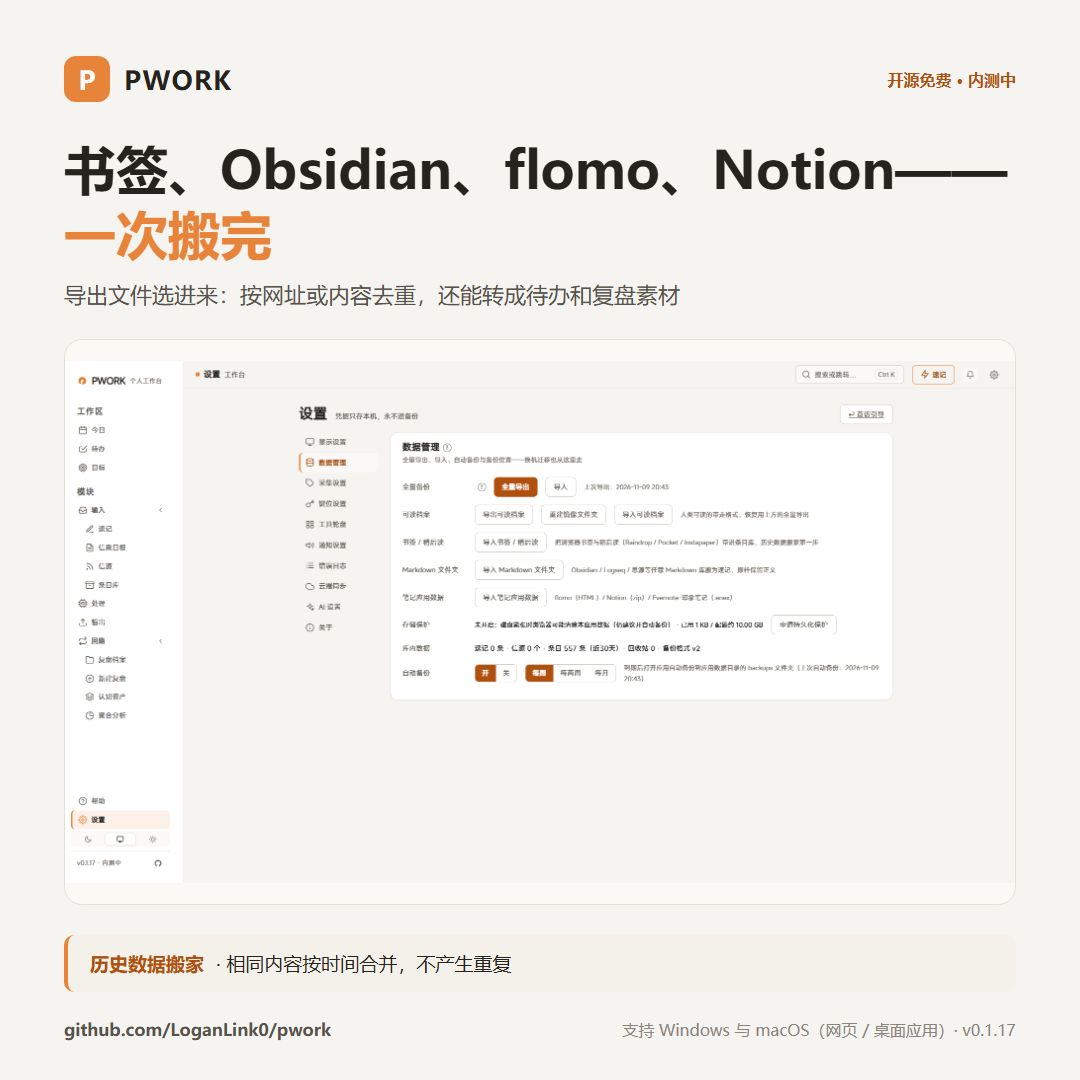
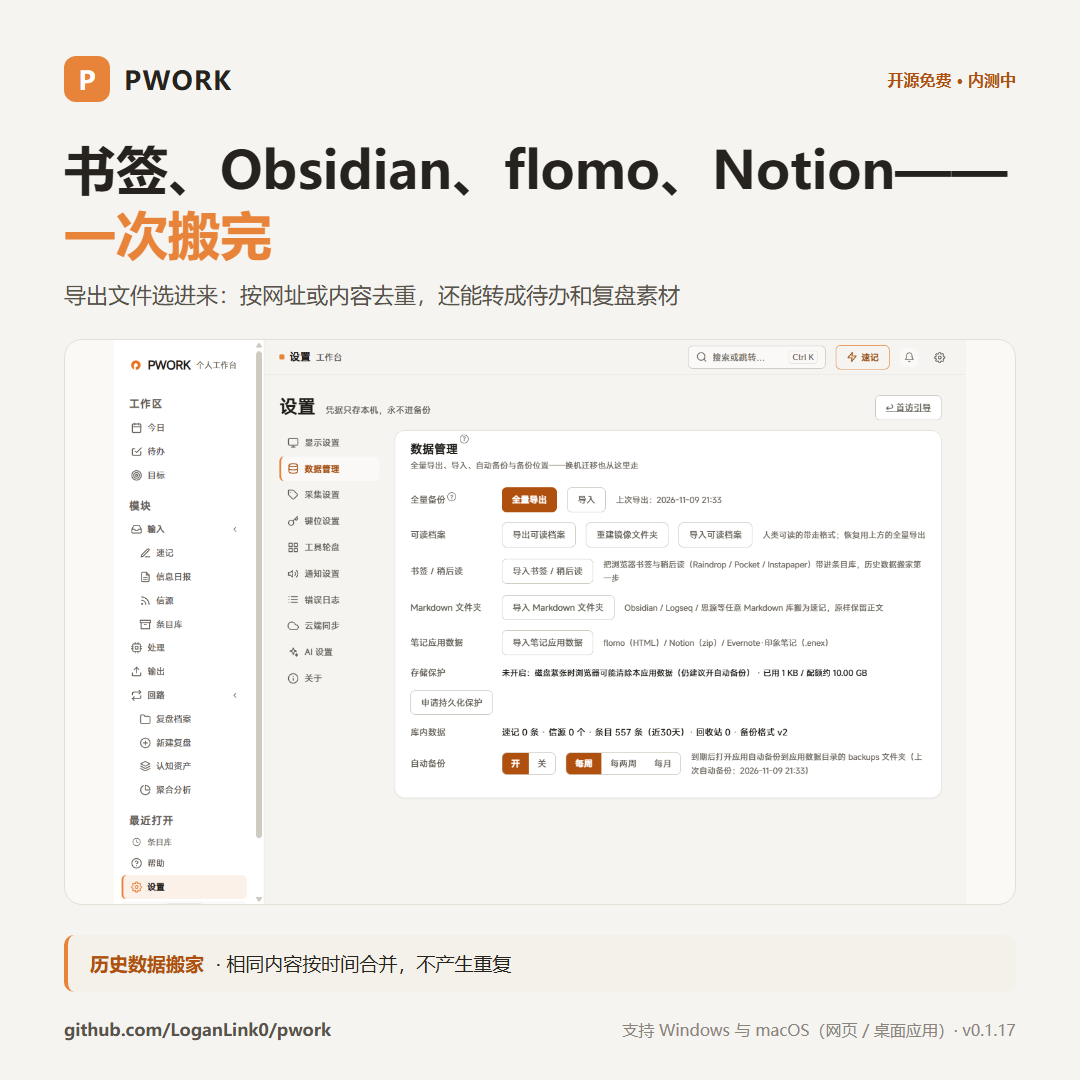
fix(0.1.17 热修重出 prep): 关自动备份知情确认闸门 + gateway.env 轮换副本与回落读取（Key 单点消除）；行内问号挪进标签元素结构性上标；八张组图随新素材重出（问号入标签+侧栏版本随新）；CHANGELOG/发布说明补热修行；TODO 备份兜底批与热修重出留档

diff --git a/app/src/pages/CloudSync.tsx b/app/src/pages/CloudSync.tsx
@@ -263,11 +263,13 @@ export function CloudSyncCards({ active }: { active: boolean }) {
           ) : (
             <>
               <div className="set-row">
-                <label>云端代理地址</label>
-            <InfoTip
-              label="云端代理地址说明"
-              text={<>可选。手机浏览器连不到电脑的本地网关，需要填它才能走云端代理：填 https://pwork-api.loganlink0.cn（你部署的云端服务地址，在桌面版这里也能看到）。桌面版可不填——优先走本机网关，连不上才用它。</>}
-            />
+                <label>
+                  云端代理地址
+                  <InfoTip
+                    label="云端代理地址说明"
+                    text={<>可选。手机浏览器连不到电脑的本地网关，需要填它才能走云端代理：填 https://pwork-api.loganlink0.cn（你部署的云端服务地址，在桌面版这里也能看到）。桌面版可不填——优先走本机网关，连不上才用它。</>}
+                  />
+                </label>
                 <input
                   className="input"
                   placeholder="桌面可留空；手机端填云端服务地址（见右侧说明）"
@@ -300,11 +302,13 @@ export function CloudSyncCards({ active }: { active: boolean }) {
               <details className="adv-block">
                 <summary>高级：改用 Cloudflare API Token（默认粘贴部署输出的 Token 即可）</summary>
                 <div className="set-row" style={{ marginTop: 'var(--sp-3)' }}>
-                  <label>API Token</label>
-            <InfoTip
-              label="凭据怎么填"
-              text={<>推荐：直接粘贴部署完成时输出的「端点地址 + Token」（ptk_ 开头那个）——填到上面两处即可，不用去 Cloudflare 控制台。也可以改用 Cloudflare API Token（约 2 分钟）：打开 <a href="https://dash.cloudflare.com/profile/api-tokens" target="_blank" rel="noreferrer noopener">dash.cloudflare.com/profile/api-tokens</a> → 创建令牌 → 自定义令牌 → 权限「账户 → D1 → 编辑」→ 复制粘贴。两种都能用。</>}
-            />
+                  <label>
+                    API Token
+                    <InfoTip
+                      label="凭据怎么填"
+                      text={<>推荐：直接粘贴部署完成时输出的「端点地址 + Token」（ptk_ 开头那个）——填到上面两处即可，不用去 Cloudflare 控制台。也可以改用 Cloudflare API Token（约 2 分钟）：打开 <a href="https://dash.cloudflare.com/profile/api-tokens" target="_blank" rel="noreferrer noopener">dash.cloudflare.com/profile/api-tokens</a> → 创建令牌 → 自定义令牌 → 权限「账户 → D1 → 编辑」→ 复制粘贴。两种都能用。</>}
+                    />
+                  </label>
                   <input
                     className="input"
                     type="password"
@@ -316,11 +320,13 @@ export function CloudSyncCards({ active }: { active: boolean }) {
                 </div>
               </details>
               <div className="set-row">
-                <label>配对到手机</label>
-                <InfoTip
-                  label="配对说明"
-                  text={<>生成一行配对文本（含云端代理地址与配对码），发到手机粘贴导入——手机端全程不需要 Cloudflare 控制台。重新生成会让旧配对码作废。</>}
-                />
+                <label>
+                  配对到手机
+                  <InfoTip
+                    label="配对说明"
+                    text={<>生成一行配对文本（含云端代理地址与配对码），发到手机粘贴导入——手机端全程不需要 Cloudflare 控制台。重新生成会让旧配对码作废。</>}
+                  />
+                </label>
                 <div style={{ display: 'flex', gap: 8, flex: 1 }}>
                   <input className="input" readOnly value={pairingText} placeholder="点右侧「生成配对码」…" aria-label="配对文本" />
                   {pairingText ? (
@@ -337,11 +343,13 @@ export function CloudSyncCards({ active }: { active: boolean }) {
                 )}
               </div>
               <div className="set-row">
-                <label>从桌面导入</label>
-                <InfoTip
-                  label="导入说明"
-                  text={<>手机端用：粘贴桌面「配对到手机」生成的文本，自动填好云端代理地址与凭据。注意：会覆盖本机已填的凭据——桌面端已配置好的不要点导入。</>}
-                />
+                <label>
+                  从桌面导入
+                  <InfoTip
+                    label="导入说明"
+                    text={<>手机端用：粘贴桌面「配对到手机」生成的文本，自动填好云端代理地址与凭据。注意：会覆盖本机已填的凭据——桌面端已配置好的不要点导入。</>}
+                  />
+                </label>
                 <div style={{ display: 'flex', gap: 8, flex: 1 }}>
                   <input className="input" value={pairingImport} placeholder="手机端：粘贴配对文本，或点「扫码导入」" onChange={(e) => setPairingImport(e.target.value)} aria-label="配对文本导入" />
                   <button type="button" className="btn-primary" style={{ padding: '8px 16px', fontSize: 14 }} onClick={() => (scanning ? stopScan() : void doStartScan())}>{scanning ? '取消扫码' : '扫码导入'}</button>

diff --git a/app/src/pages/Settings.tsx b/app/src/pages/Settings.tsx
@@ -539,11 +539,13 @@ export function Settings() {
         <div className="set-body">
 
           <div className="set-row">
-            <label>全量备份</label>
-            <InfoTip
-              label="全量导出内容范围"
-              text={<>导出内容：速记、信源、条目、采集设置、任务、目标、复盘（含行动项与洞察）、外部数据块。条目只含已评分和已保留的，未处理与已筛除的不导出。导入时相同内容按修改时间新者为准；FUPAN 旧版导出的文件也能导入。</>}
-            />
+            <label>
+              全量备份
+              <InfoTip
+                label="全量导出内容范围"
+                text={<>导出内容：速记、信源、条目、采集设置、任务、目标、复盘（含行动项与洞察）、外部数据块。条目只含已评分和已保留的，未处理与已筛除的不导出。导入时相同内容按修改时间新者为准；FUPAN 旧版导出的文件也能导入。</>}
+              />
+            </label>
             <button type="button" className="btn-primary" style={{ flex: 'none' }} onClick={() => void doExport()}>
               全量导出
             </button>
@@ -702,7 +704,26 @@ export function Settings() {
               <button type="button" className={autoBk.enabled ? 'on' : ''} onClick={() => setAutoBackup({ enabled: true })} aria-pressed={autoBk.enabled}>
                 开
               </button>
-              <button type="button" className={!autoBk.enabled ? 'on' : ''} onClick={() => setAutoBackup({ enabled: false })} aria-pressed={!autoBk.enabled}>
+              <button
+                type="button"
+                className={!autoBk.enabled ? 'on' : ''}
+                onClick={() => {
+                  // 关闭自动备份必须过知情确认（2026-11-09 用户定稿：默认强制备份，退出需知情同意）——
+                  // 数据安全三道闸少一道后，误删/损坏/覆盖安装事故将没有任何自动可恢复副本
+                  if (autoBk.enabled) {
+                    void confirmDialog({
+                      title: '关闭自动备份？',
+                      body: '关闭后，日常的误删、文件损坏、覆盖安装事故将没有任何自动可恢复副本；浏览器版清除浏览数据会连数据一起清掉。数据安全三道闸会少一道，且事后无法追溯。',
+                      danger: true,
+                      confirmLabel: '仍要关闭（我了解风险）',
+                      cancelLabel: '保持开启',
+                    }).then((ok) => { if (ok) setAutoBackup({ enabled: false }) })
+                  } else {
+                    setAutoBackup({ enabled: true })
+                  }
+                }}
+                aria-pressed={!autoBk.enabled}
+              >
                 关
               </button>
             </div>

diff --git a/app/src/styles/shell.css b/app/src/styles/shell.css
@@ -3381,13 +3381,8 @@ html[data-wheel] body {
   align-self: flex-start;
   line-height: 1;
 }
-/* set-row 里标签是独立列，行距 gap 会把问号推离标签悬在空档——
-   负外边距贴回标签右上角，上边距抵消行内边距使问号顶对齐标签顶（2026-11-09 量测） */
-.set-row .info-tip {
-  margin-left: calc(var(--sp-4) * -1 + 3px);
-  margin-top: var(--sp-2);
-}
-/* 大字号卡片标题（h2）里 vertical-align 到不了字面顶，位移补偿吸到标题右上角 */
+/* 行内问号已挪进标签/标题元素内部（2026-11-09 第六轮）：随文字换行永远贴右上角，
+   不再依赖 set-row 负边距补偿（窄窗换行形态下补偿会失效）；h2 大字号仍需位移到字面顶 */
 h2 .info-tip {
   transform: translateY(-10px);
 }

diff --git a/app/src-tauri/src/gateway.rs b/app/src-tauri/src/gateway.rs
@@ -69,6 +69,10 @@ impl GatewayConfig {
         // 工作目录——从下载目录等位置启动时，工作目录下预置的 .env 可劫持上游地址（安全审计 F10）
         let mut vars: Vec<(String, String)> = Vec::new();
         parse_env_file(&data_dir.join("gateway.env"), &mut vars);
+        // Key 兜底（复盘 3.64）：gateway.env 缺失/无 Key 时回落同目录轮换副本 gateway.env.autobak
+        if var_from(&vars, "PWORK_LLM_API_KEY").map(|v| v.is_empty()).unwrap_or(true) {
+            parse_env_file(&data_dir.join("gateway.env.autobak"), &mut vars);
+        }
         if cfg!(debug_assertions) {
             parse_env_file(&PathBuf::from(".env.local"), &mut vars);
             parse_env_file(&PathBuf::from(".env"), &mut vars);

diff --git a/app/src-tauri/src/lib.rs b/app/src-tauri/src/lib.rs
@@ -174,6 +174,10 @@ fn save_gateway_key(
         }
     }
     std::fs::write(&file, format!("{}\n", lines.join("\n"))).map_err(|e| e.to_string())?;
+    // 同目录轮换副本（复盘 3.64）：gateway.env 是 Key 的唯一落点，损坏/丢失即不可逆——
+    // 副本同权限同目录，永不进导出与备份包裹
+    let bak = data_dir.join("gateway.env.autobak");
+    let _ = std::fs::copy(&file, &bak);
     // 热更新：重新从盘上加载（与启动时同一路径），后续请求立即用新 Key
     *state.lock().unwrap() = gateway::GatewayConfig::load(&data_dir);
     Ok(())

diff --git a/docs/TODO.md b/docs/TODO.md
@@ -13,6 +13,8 @@
 - [x] **用户验收 UX 修复批（2026-11-09 五项全落地）**：①公告卡锁两行（.an-desc line-clamp 2 + min-height 定高，轮换到长文案不再顶起上方布局）+「前往」改跳发布页 `#changelog`——介绍页时间线升级为逐版更新日志区（0.1.8→0.1.17 十版要点，参考 autoclaw changelog 形态）②数据流向图大图补右上角 ✕ 关闭钮 + 窗口级 Esc 监听 + 操作提示（原提示被 88vh 大图推出视口，实际只能 Esc 关）③常见问题/术语表分组折叠展开（faq-fold，details 默认展开，组名带条数与箭头）④InfoTip 全局缩小上标（17px→14px，vertical-align:super + flex 行内 align-self:flex-start，吸标题文字右上角——数据管理/云端同步/AI 设置等全量生效）⑤截素材切版本事故与防线：强杀 WebView2 宿主致用户 AI Key 清零（localStorage profile 被重置，复盘 3.64 留档），gateway.env 从 app/.env.local 原样恢复（密钥不经对话）；截素材规程改为隔离数据目录实例（WEBVIEW2_USER_DATA_FOLDER=-iso）+ 脚本注入最小网关模式 coach 配置 + 关停走 WM_CLOSE 优雅路径（local/send-wmclose.ps1）。连带发现新缺陷见下条。测试 542 全绿 / tsc 0 / lint 0 错误
 - [ ] **关主窗后进程不退出——无窗僵尸持单实例锁（2026-11-09 发现，bug 入 backlog）**：主窗 ✕ / WM_CLOSE 后窗口全部销毁，进程不退（EnumWindows 零顶层窗口、内存平稳），疑似退出清理与网关线程互等；僵尸握单实例锁阻断再次启动，操作者被迫强杀——而强杀 WebView2 宿主正是配置清零事故根因（复盘 3.64/3.65）。修法方向：RunEvent::ExitRequested 显式处理 + 网关线程受控关停（join/断开）+ 回归项「点 ✕ 后进程退出且再次启动正常」；配套排查产物 local/send-wmclose.ps1（全窗口 WM_CLOSE 投递）与 local/list-win.ps1（窗口清单）
 - [x] **宣传物料品牌色统一（2026-11-09 用户抓出）**：组图模板 #d98e3a / 主图 #e0862c / 应用与介绍页记录值 #e8833a 三套橙并存（复盘 3.66）——模板建时色值未从 tokens.css 取、历轮验收只看内容未核色。统一改 #e8833a / #b0500f（tokens.css 记录对），主图重渲染升 v16（v15 删，git 可回溯），八张组图重出；发版清单宣传物料核对项补「模板 --accent 与 tokens.css 同值」
+- [x] **备份兜底第一批（2026-11-09 用户定稿「默认强制备份，退出需知情同意」）**：①设置→数据管理 关自动备份改为知情确认闸门（确认层红键列后果，确认才关）②gateway.env 轮换副本：保存时同步写 gateway.env.autobak（同目录同权限，永不进导出与备份包裹），读取侧主文件缺失/无 Key 自动回落——Key 单点消除（复盘 3.64 收口）。**下批设计定稿待实施**：主库突变守卫（启动比对行数快照，实体骤减 ≥95% 先隔离现状再给一键恢复，封覆盖安装类静默丢）+ 恢复演练进发版清单
+- [x] **0.1.17 同版本热修重出（2026-11-09 用户拍板「打进 0.1.17」）**：本日全部验收修复（公告卡两行/问号上标/灯盒关闭钮/常见问题折叠/备份知情闸门/Key 互备/物料色值）随 0.1.17 安装包重出——Windows 双包重构建换新签名，GitHub Release 资产与 latest.json Windows 条目、COS 直链同步替换；mac dmg 走 CI 工作流重出（对已发 tag 重跑不覆盖 latest.json darwin 条目的防线保持）；同版本号下已装 0.1.17 的用户不会收到更新提示，需手动覆盖安装新版
 - [x] **R1 第三方数据导入（2026-11-04 用户拍板：先 R1 → 再 R2 → macOS 最后）**：~~浏览器书签 HTML 导入~~（**已完成 2026-11-04，17401**：engine/bookmarksImport.ts + 设置→数据入口 + 单测 5）；~~flomo / Notion / Evernote~~（**实为 0.1.15 已全量交付**：engine/thirdpartyImport.ts 三通道——flomo 导出 HTML 时间戳切块、Notion 导出 zip（.md+子文件夹，CSV 跳过）、.enex XML，设置→数据「导入笔记应用数据」入口在位；TODO 原「剩余 flomo zip / Notion zip」为漏勾——flomo 官方导出形态即单 HTML 无 zip（2026-11-05 官方文档查证留档），2026-11-09 对账勾档）
 - [ ] **移动端数据通路（竞品评估 5.1，2026-11-08 入档；0.1.16 三十天稳定窗口后首个大活）**：手机浏览器连不到本机网关、手机侧 D1 拉取暂不通——卡点精确位置（2026-11-08 源码核实）：抓取链路有转接服务兜底手机端本就可用，断的是 d1Query 的两条路（本地网关手机上不存在；官方直连无 CORS 头被浏览器拦）。**① worker CORS 代理已实装（2026-11-08，修断路）**：worker 新增 POST /api/d1/query 反代端点——挂 CORS 头转发官方 API、鉴权由 Cloudflare 按 Bearer Token 官方裁定、账户/库 ID 格式校验防路径注入、worker 零凭据存储；前端 d1Query 升三级回落（本地网关 → 云端代理 → 官方直连），手机端配置零新增（endpoint/accountId/databaseId/token 全部复用）；测试 worker 23 项（+4）/app 532 项（+3）全绿、tsc 零错误。**② worker 已更新部署 + 线上验证（2026-11-08 用户授权代办完成）**：wrangler deploy 成功（版本 1f391820，OAuth 复用本机登录态；database_id 回写部署→提交前还原占位符），线上实测 health 200 / CORS 预检头正常 / 无凭据 401 拦截；GitHub 已推送（06293b8），Pages 重建后手机 PWA 即含三级回落前端。**DNS 迁移与自定义域全部完成（2026-11-08 用户拍板选项 1 并代办的步骤全部执行完毕）**：loganlink0.cn NS 已从 DNSPod 迁至 Cloudflare（brian/chelsea.ns.cloudflare.com，注册局与公共 DNS 均已生效，介绍页 HTTPS 200 正常；迁移中踩两处——Cloudflare 扫描不含自命名子域需手动补 pwork CNAME、添加记录的代理橙云默认开启致 HTTPS 短暂不可达已改灰云）；worker 已绑自定义域 pwork-api.loganlink0.cn（wrangler.toml routes 顶层键 + workers_dev 显式保留双入口；踩坑：routes 写进 [triggers] 段内被当嵌套字段忽略），**大陆直连实测 health 200 / 无凭据 401 / 坏格式 400**；剩余唯一动作=手机端 设置→云端同步 端点填 https://pwork-api.loganlink0.cn 实测设备同步。**③ 两步配对已全栈实装（2026-11-08 用户体验批评驱动，087e694）**：手机配置从「Cloudflare API Token + 账户 ID + 数据库 ID + 控制台建令牌」缩到「粘贴一行配对文本」——worker /api/d1/query 三级分流（部署 Token 或配对码 → 自有 D1 绑定白名单直执行：单语句/仅增删改查/仅 items·sources·config·pwork_sync_records·ingest_blocks 五表；其余 Bearer 转发官方 API，桌面兼容零变化），桌面「配对到手机」生成 JSON 行配对文本（随机 16 位码写 D1 config 表 sync_pairing_code，重新生成即旧码作废），两端「从桌面导入」粘贴框；D1 守卫与 cloudConfigured 语义放宽（token+endpoint 即可）；测试 worker 28（+5）/app 542（+5）全绿，**线上真实链路四连验证**（命中执行 2987 条计数 / 错码拒 / 外表 notes 拒 / 多语句拒）；踩坑留档：wrangler d1 命令读 toml 的 database_id——占位符状态下执行会打到假库报 7404。桌面「生成配对码」按钮随 0.1.17 进安装包（当前装机的 0.1.16 无此按钮）；手机 PWA 已含导入框（Pages 已重建）。**④ 剩余**：设备同步首验（用户动作，手机可先手动四项配置实测，或等 0.1.17 后两步配对）+ 写路径细节按首验结果定。全文见 [竞品对比评估-2026-11.md](./竞品对比评估-2026-11.md) 五.1
 - [x] **R14 社区设施开闸（2026-11-04 完成）**：对标评审补充轮实证逐项核验属实（discussions=false / wiki=false / open_issues=0 / watch=0 / star=2）→ ①Discussions 已开启（默认分类含问答/想法/展示三分类）②issue 模板与 CONTRIBUTING 核查后**已在位**（评审"无模板引导"为漏判，未采纳）③README 赞助姿态行 + Discussions 链接 + 回归基线数字刷新（488 / 1 条既有警告）④ISSUE_TEMPLATE config 修正过时介绍页域名 + 补讨论区指引 ⑤**路线图置顶帖已发布（11-04 用户补 token Discussions 写权限后）**：Discussion #1 https://github.com/LoganLink0/pwork/discussions/1 （Announcements 分类，自带分类内置顶；Discussions 总页跨分类 Pin 公开 API 无此能力，网页点一次即可——唯一残留半步）

diff --git a/发布说明.md b/发布说明.md
@@ -67,6 +67,7 @@ Key 只写进你自己电脑的 gateway.env 文件：不上传、不进备份、
 - **删除确认统一升级**：全应用 17 处删除/覆盖类确认换为应用内弹层——后果说明分层、危险操作红键、Esc 与遮罩关闭
 - **加载状态不再说谎**：速记 / 待办读取完成前不再闪现「0 条」空态
 - 工程项：worker 新增 D1 直执行配对端点（白名单五表收口）；桌面端云端通路重构为三级顺序回落（修复配对凭据被本地网关卡死、新推荐路径桌面不可用的缺陷）；回归基线 529 → 542 项全绿
+- 发版当日热修（同版本重出安装包）：公告卡锁定两行、设置页问号提示缩小并贴标题右上角、数据流向图大图补关闭按钮、常见问题/术语表分组折叠、关闭自动备份需确认后果、网关 Key 落盘自动互备副本
 
 **本版变化（0.1.16）**：
 - **通知中心**：任务完成回执与各类提醒不再弹完即失——顶栏右上角铃铛带未读数，点开面板回看历史、点条目跳回对应页面

diff --git a/CHANGELOG.md b/CHANGELOG.md
@@ -11,6 +11,7 @@
 - **删除确认统一升级**：全应用 17 处删除/覆盖类确认从系统原生弹窗换为应用内弹层——后果说明分层展示、危险操作红色按钮、支持 Esc 与点遮罩关闭
 - **加载状态不再说谎**：速记、待办两页在数据读取完成前不再闪现「0 条」的空态，改为「正在读取…」
 - 工程项：worker 新增 D1 直执行配对端点（白名单五表收口，线上四连验证）；桌面端云端通路重构为三级顺序回落（修复配对凭据被本地网关卡死）；回归基线 529 → 542 项全绿；新增 qrcode 渲染依赖
+- 发版当日热修（同版本重出安装包）：公告卡锁定两行并改跳发布页更新日志、设置页问号提示缩小并贴标题右上角、数据流向图大图补关闭按钮、常见问题/术语表分组折叠、关闭自动备份需确认后果、网关 Key 落盘自动互备副本、分享图品牌色统一为 #e8833a
 
 ## 0.1.16 · 2026-11-07（内测）
 
